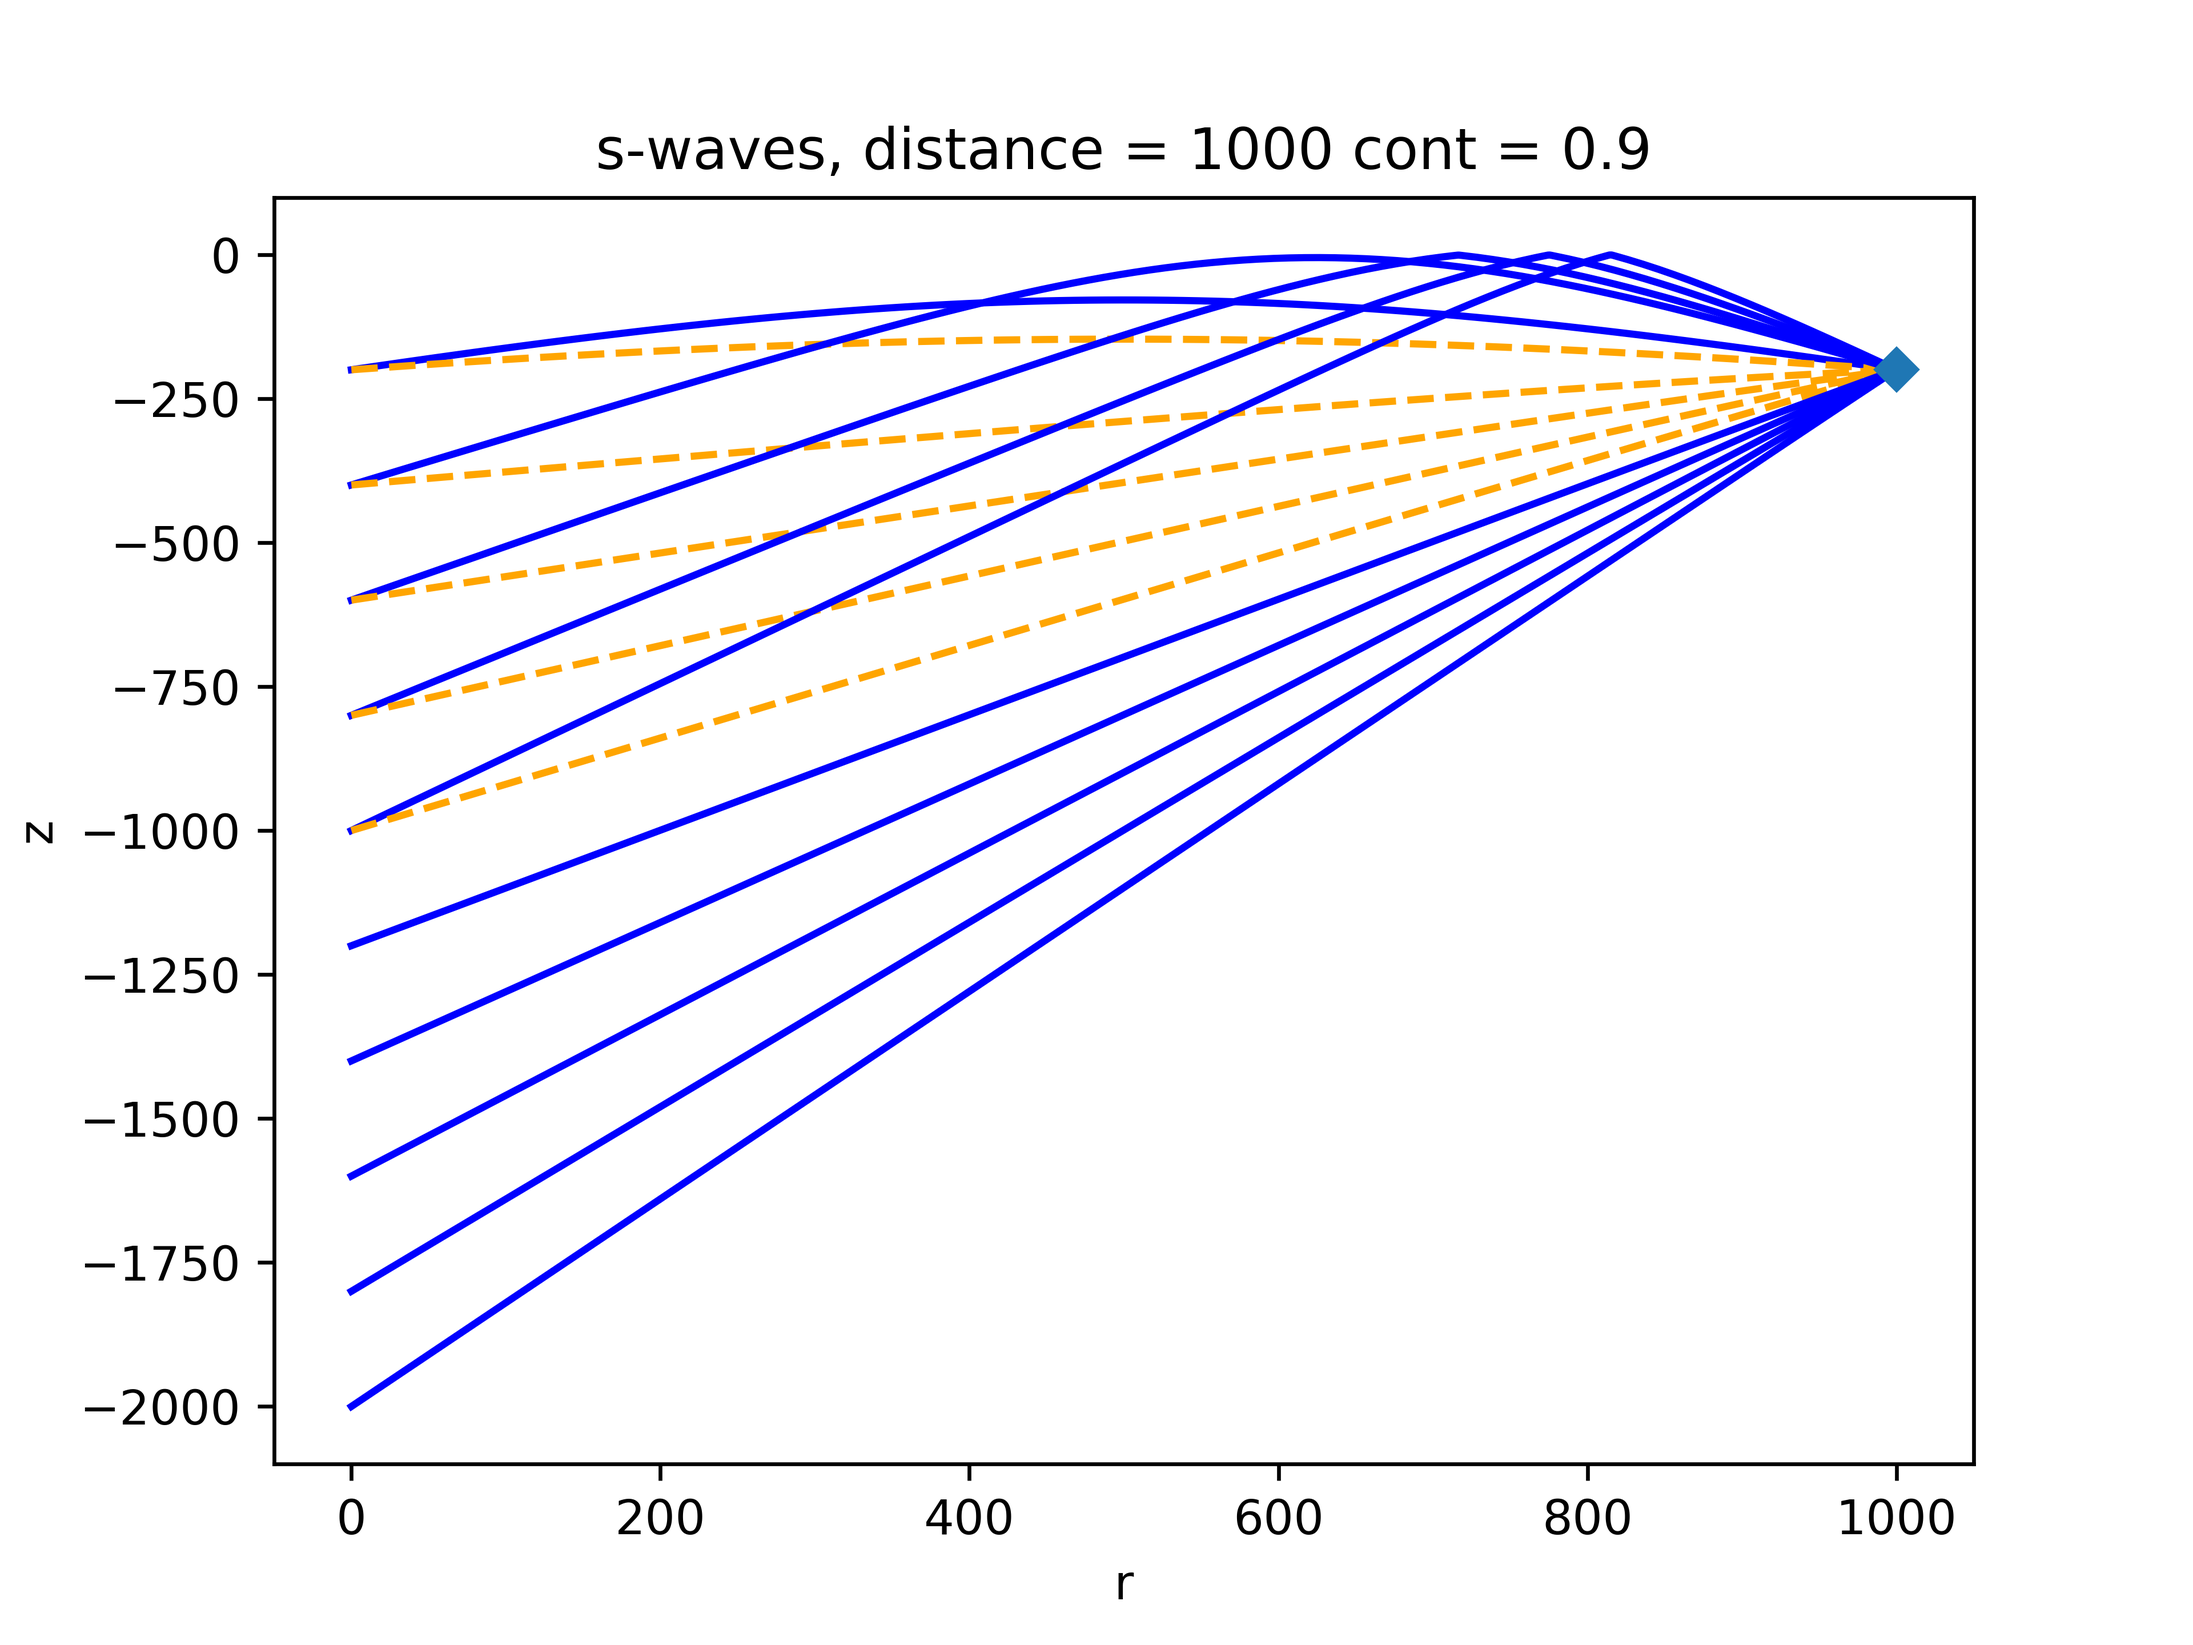
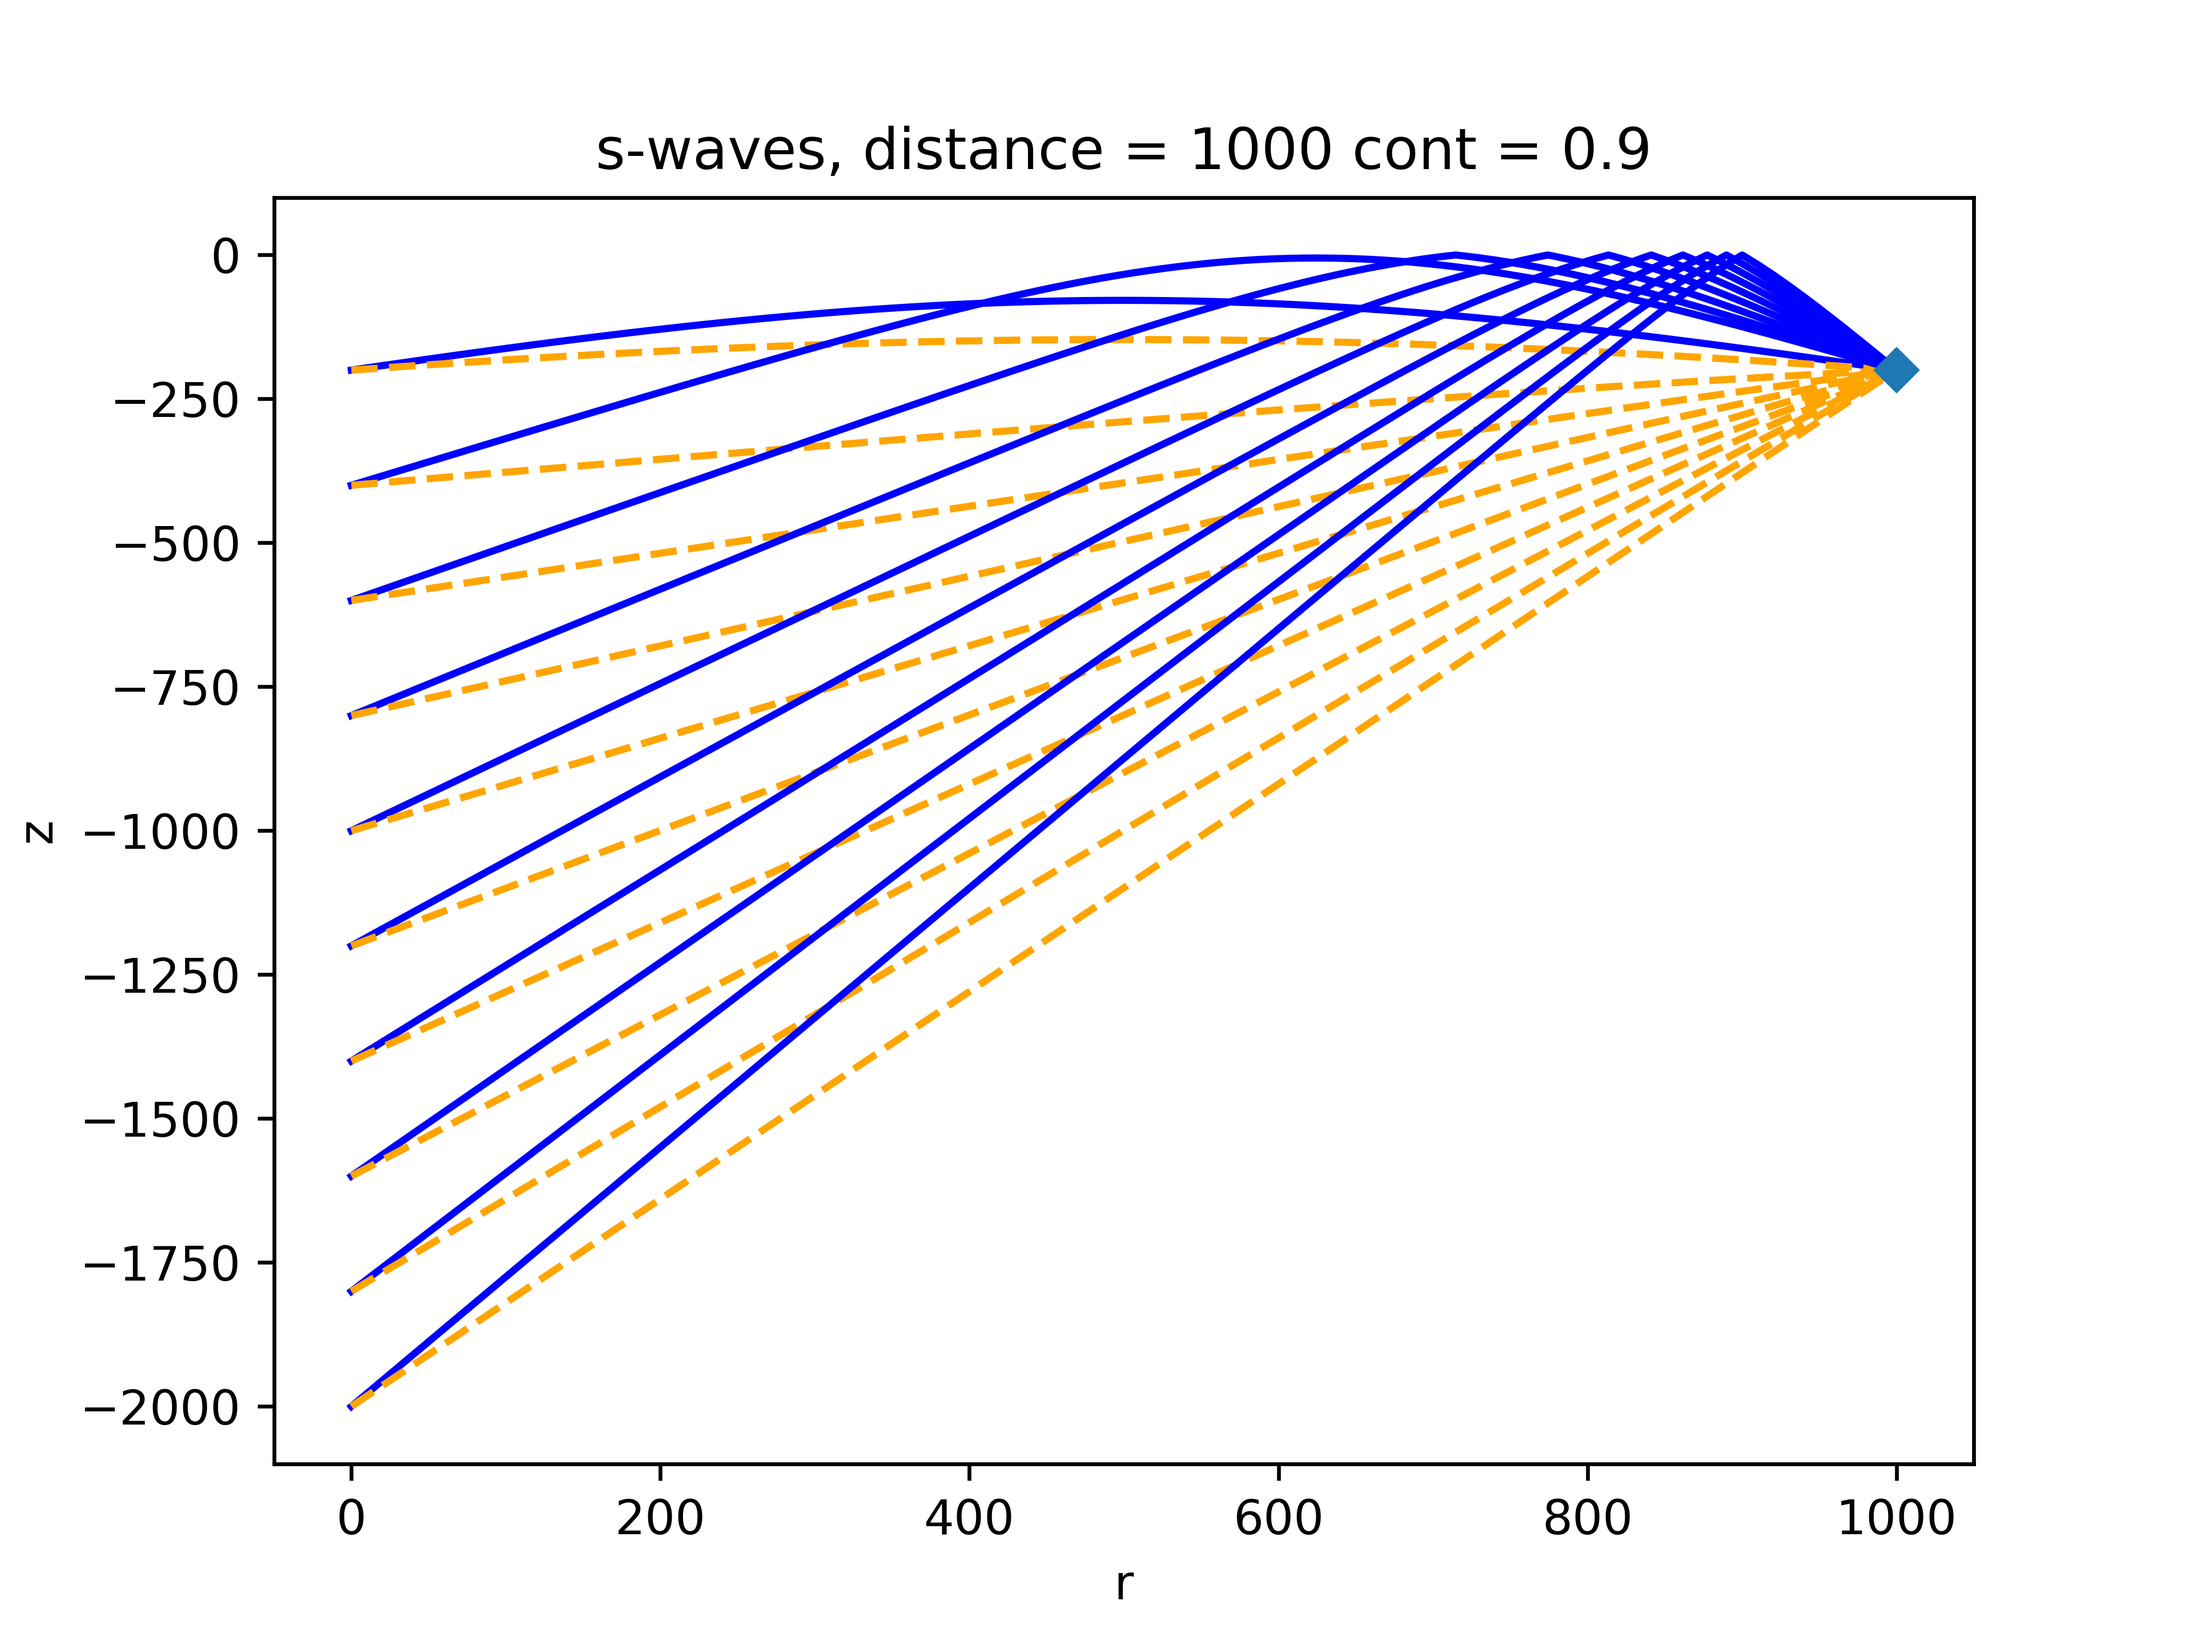
fixed reflection code

diff --git a/polarization/snell_uniaxial_roottests.py b/polarization/snell_uniaxial_roottests.py
@@ -26,7 +26,7 @@ parser.add_argument('z0', type=float,
 '''
 
 rmax = 1000
-z0 = -1000
+z0 = -300
 zm = -200
 dr = 10
 dz = 10
@@ -78,8 +78,8 @@ plt.title('contrast = '+str(cont))
 plt.xlabel('r')
 plt.ylabel('z')
 plt.legend()
-#plt.savefig('snells_uniaxial_example'+str(cont).replace('.','')+'.png', dpi=600)
-plt.show()
+plt.savefig('snells_uniaxial_example'+str(cont).replace('.','')+'.png', dpi=600)
+#plt.show()
 plt.clf()
 
 #input()
@@ -99,7 +99,7 @@ for j in range(len(zarr)):
     
     #print('inital guesses: ', np.arcsin(1/sf.nstmp(z0)), np.pi/2-np.arctan((-zm-z0)/rmax), np.pi/2-np.arctan((zm-z0)/rmax))
     rb = 0
-    podesol1, rb = sf.get_ray_1guess(sf.objfn, sf.podes, rmax, z0, zm, dr, guess(z0))#, np.pi/2-np.arctan((-zm-z0)/rmax))
+    podesol1, rb = sf.get_ray_1guess(sf.objfn, sf.podes, rmax, z0, zm, dr, 0.1)#, np.pi/2-np.arctan((-zm-z0)/rmax))
     if rb is not None:
         podesol2, rb = sf.get_ray_1guess(sf.objfn, sf.podes, rmax, z0, zm, dr, rb)#np.pi/2-np.arctan((-zm-z0)/rmax))#, np.pi/2-np.arctan((zm-z0)/rmax))
     else:
@@ -114,7 +114,7 @@ for j in range(len(zarr)):
         ax1.plot(podesol2.t, podesol2.y[1], '--', color='orange', label=str(z0))
         tmptab[j, 8] , tmptab[j, 9], tmptab[j,10] = podesol2.y[0,0], tp2, np.abs(np.abs(sf.npp(podesol1.y[0,0], z0)*np.sin(podesol1.y[0,0])) - np.abs(sf.npp(podesol1.y[0, -1], podesol1.y[1, -1])*np.sin(podesol1.y[0, -1])))
     
-    sodesol1, rb = sf.get_ray_1guess(sf.objfn, sf.sodes, rmax, z0, zm, dr, guess(z0))#, np.pi/2-np.arctan((-zm-z0)/rmax))
+    sodesol1, rb = sf.get_ray_1guess(sf.objfn, sf.sodes, rmax, z0, zm, dr, 0.1)#, np.pi/2-np.arctan((-zm-z0)/rmax))
     if rb is not None:
         sodesol2, rb = sf.get_ray_1guess(sf.objfn, sf.sodes, rmax, z0, zm, dr, rb)#np.pi/2-np.arctan((-zm-z0)/rmax))#, np.pi/2-np.arctan((zm-z0)/rmax))
     else:

diff --git a/polarization/snell_fns.py b/polarization/snell_fns.py
@@ -15,7 +15,7 @@ c = 0.0132
 
 #sim model parameters
 d = 0.01
-cont = 0.9
+cont = 0.999
 n2 = 1e-6
 
 def nz(z):
@@ -209,7 +209,7 @@ def shoot_ray(odefn, event, rinit, rmax, theta0,  z0, dr):
         thetainit = sol.y_events[0][0][0]
         zinit = sol.y_events[0][0][1]
         travtime = sol.y_events[0][0][2]
-        sol2 = solve_ivp(odefn, [tinit, 200], [np.pi-thetainit, zinit, travtime], method='DOP853', events=event, max_step=dr)
+        sol2 = solve_ivp(odefn, [tinit, rmax], [np.pi-thetainit, zinit, travtime], method='DOP853', events=event, max_step=dr)
         tvals = np.hstack((sol.t[sol.t < tinit], sol2.t))
         yvals = np.hstack((sol.y[:, :len(sol.t[sol.t < tinit])], sol2.y))
         return OptimizeResult(t=tvals, y=yvals)
